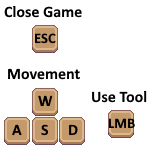
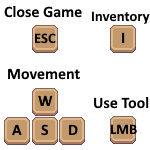
Added Keybinds overlay

Changed region(s): [[0.6133, 0.5867, 1.0, 0.96], [0.6133, 0.0533, 1.0, 0.3733]]

diff --git a/Classes/World/GameWorld.cs b/Classes/World/GameWorld.cs
@@ -24,6 +24,7 @@ public class GameWorld : Game, ISubject
     private GraphicsDeviceManager _graphics;
     private SpriteBatch _spriteBatch;
     private Song backgroundMusic;
+    private Texture2D keybindsImage;
     private static GameWorld instance;
     public Player Player { get; private set; }
 
@@ -109,6 +110,7 @@ public class GameWorld : Game, ISubject
     {
         _spriteBatch = new SpriteBatch(GraphicsDevice);
 
+        keybindsImage = Content.Load<Texture2D>("Assets/UI/Keybinds");
         Pixel = new Texture2D(GraphicsDevice, 1, 1);
         Pixel.SetData(new[] { Color.White });
 
@@ -188,11 +190,16 @@ public class GameWorld : Game, ISubject
         {
             gameObject.Draw(_spriteBatch);
         }
-
-        // Tegn spillerens UI bagefter
+        
         if (Player != null)
         {
             Player.Draw(_spriteBatch);
+        }
+
+        if (keybindsImage != null)
+        {
+            _spriteBatch.Draw(keybindsImage, new Vector2(50, 50), Color.White);
+            // (du kan flytte det rundt med Vector2 hvis det skal være et andet sted)
         }
 
         _spriteBatch.End();
